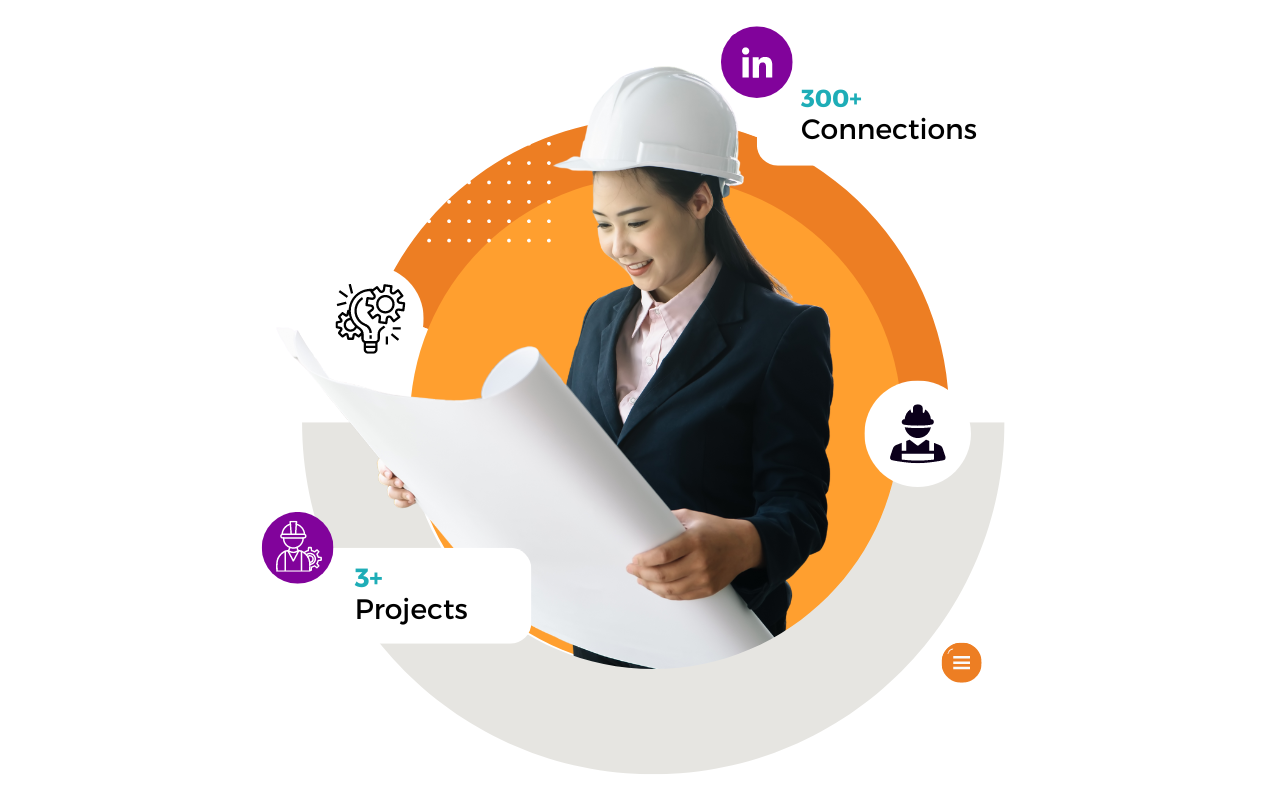
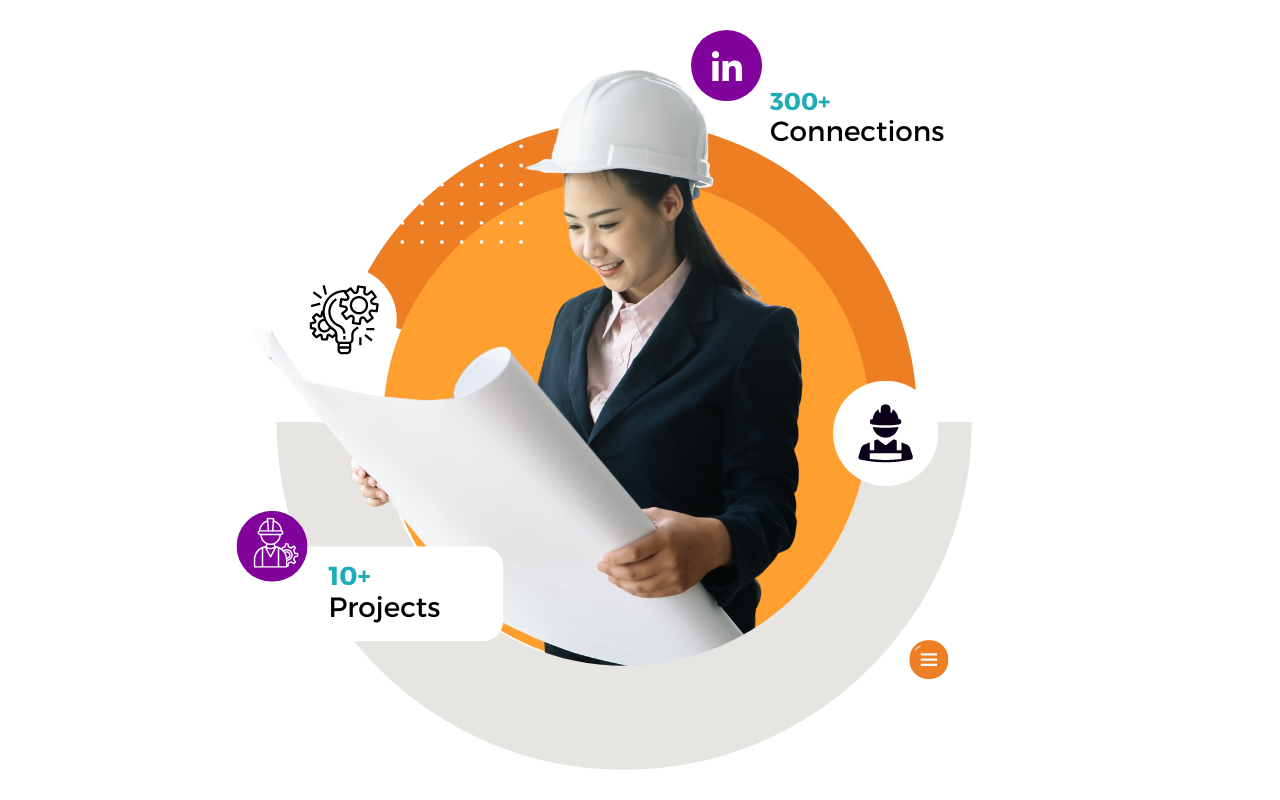
updated home page

diff --git a/pages/index.html b/pages/index.html
@@ -47,7 +47,7 @@
       <div class="home-content">
         <div class="Divider">
           <div class="item0"><h1 id=""><span>CIVIL INNOVATION &</span> TECHNOLOGY CELL</h1>
-            <p>Unleashing the future of civil engineering. Our expert teams fuse traditional disciplines with cutting-edge AI, ML, and digital integration. We empower individuals through skill development and ignite innovation through exciting competitions.</p>
+            <p>We empower individuals through skill development & ignite innovation through exciting competitions.</p>
 
             
           </div>

diff --git a/pages/index.css b/pages/index.css
@@ -168,15 +168,27 @@ body {
   display: grid;
   grid-template-columns: repeat(2,1fr);
   grid-template-rows: 1fr;
-  
   max-width: 600px;
   margin-left: 20px;
-  margin-top: 180px;
+  margin-top: 100px;
 
 }
 span {
   color: #738da8;
 }
+
+.Divider{
+  margin-top: 70px;
+}
+
+#customSelectInput{
+  margin-top: 60px;
+}
+
+#goButton{
+  margin-top: 60px;
+}
+
 
 .home-content h1{
   font-size: 56px;
@@ -186,7 +198,10 @@ span {
 }
 
 .home-content p{
-  font-size: 16px;
+  margin-top: 20px;
+  /* margin-bottom: 30px; */
+  margin-left: 5px;
+  font-size: 20px;
 }
 
 .item1 img{
